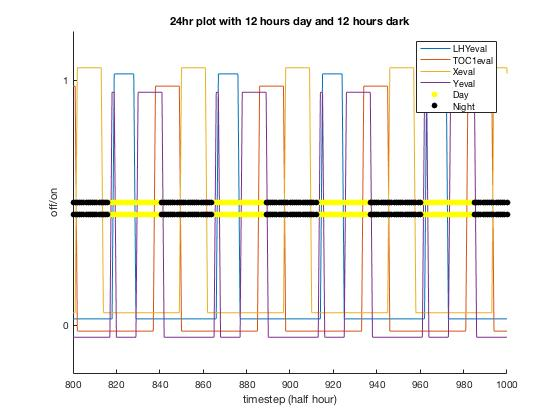
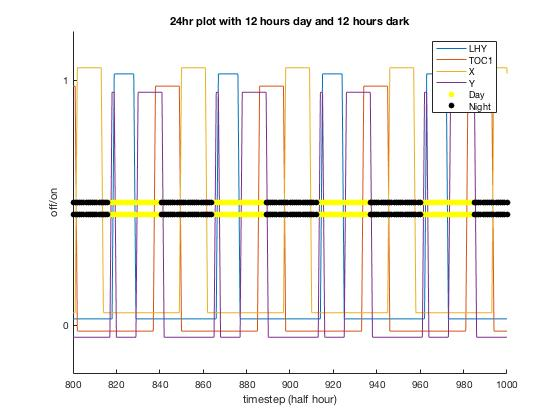
better images

Changed region(s): [[0.7286, 0.0929, 0.8804, 0.2786]]

diff --git a/modelfunc.m b/modelfunc.m
@@ -45,7 +45,7 @@ function [ ] = modelfunc(on,off)
     title = sprintf('24hr plot with %d hours day and %d hours dark', t_on/2,...
         t_off/2);
     plot_bool(nodestates, 800, 1000, title, ...
-        {'LHYeval', 'TOC1eval', 'Xeval', 'Yeval', 'Day','Night'}, [5,6,7])
+        {'LHY', 'TOC1', 'X', 'Y', 'Day','Night'}, [5,6,7])
 
 end
 
